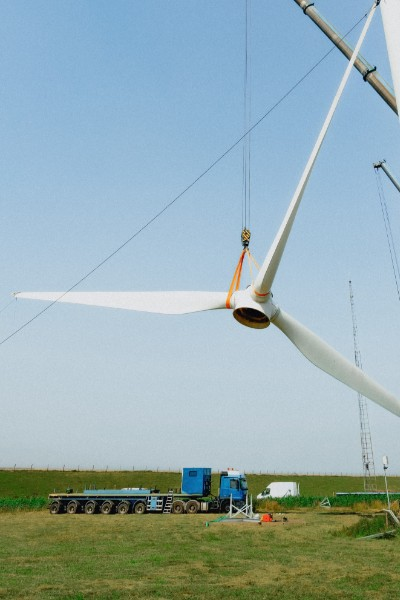
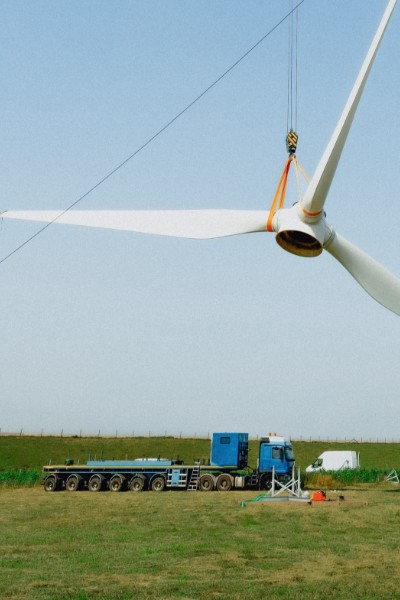
feedback

diff --git a/inscreen_expandable_mobile-uncovering-dirty-money/banner/css/style.css b/inscreen_expandable_mobile-uncovering-dirty-money/banner/css/style.css
@@ -1,6 +1,6 @@
 /* ------------------------------------------------
  LEAVE IN PLACE --------------------------------- */
-body {
+ body {
 	-webkit-tap-highlight-color: transparent;
 }
 
@@ -44,7 +44,7 @@ body {
 	width: calc(100% + 20px);
 	height: auto;
 	object-fit: cover;
-	object-position: center;
+    object-position: center;
 
 	animation: pan 10s infinite ease-in-out;
 }
@@ -91,12 +91,11 @@ body {
 	/* Make it your job */
 
 	font-family: 'ING Me Bold';
-	font-size: 9vmin;
+	font-size: 7vmin;
 	background-color: #ff6200;
 	color: white;
 	border-radius: 5px;
-	padding: 0.25em 0.4em;
-	width: max-content;
+	padding: .25em .4em;	width: max-content;
 }
 
 .purple {
@@ -106,9 +105,8 @@ body {
 	background-color: #ab0066;
 	color: white;
 	border-radius: 5px;
-	font-size: 5vmin;
-	padding: 0.25em 0.4em;
-	margin-top: 8px;
+	font-size: 4vmin;
+	padding: .25em .4em;	margin-top: 8px;
 	width: max-content;
 }
 
@@ -122,6 +120,10 @@ body {
 	z-index: 2;
 }
 
+.logo svg {
+	width: 100%;
+	height: 100%;
+}
 .logo img {
 	width: 100%;
 	height: 100%;

diff --git a/inscreen_expandable_mobile-helping-giants-go-green/banner/index.html b/inscreen_expandable_mobile-helping-giants-go-green/banner/index.html
@@ -26,8 +26,8 @@
                     <span>go green</span>
                 </div>
                 <div class="disclaimer">
-                    Society is transitioning to a low-carbon economy. So are our clients,<br />
-                    and so is ING. We fincance a lot of sustainable things, but we still finance<br />
+                    Society is transitioning to a low-carbon economy. So are our clients,
+                    and so is ING. We fincance a lot of sustainable things, but we still finance
                     more that's not. See how we're progressing on <strong>ing.com/climate</strong>.
                 </div>
                 <div class="logo">

diff --git a/inscreen_expandable_mobile-helping-giants-go-green/banner/css/style.css b/inscreen_expandable_mobile-helping-giants-go-green/banner/css/style.css
@@ -78,6 +78,7 @@ body {
 
 	bottom: 16px;
 	font-size: 6px;
+	text-shadow: 0 0 2px rgba(0, 0, 0, 0.5);
 }
 
 .container.bottom {
@@ -91,7 +92,7 @@ body {
 	/* Make it your job */
 
 	font-family: 'ING Me Bold';
-	font-size: 9vmin;
+	font-size: 7vmin;
 	background-color: #ff6200;
 	color: white;
 	border-radius: 5px;
@@ -105,7 +106,7 @@ body {
 	background-color: #ab0066;
 	color: white;
 	border-radius: 5px;
-	font-size: 5vmin;
+	font-size: 4vmin;
 	padding: .25em .4em;	margin-top: 8px;
 	width: max-content;
 }

diff --git a/mobile_scroller-helping-giants-go-green/banner/css/style.css b/mobile_scroller-helping-giants-go-green/banner/css/style.css
@@ -85,7 +85,7 @@ body {
 	/* Make it your job */
 
 	font-family: 'ING Me Bold';
-	font-size: 9vmin;
+	font-size: 7vmin;
 	background-color: #ff6200;
 	color: white;
 	border-radius: 5px;
@@ -100,7 +100,7 @@ body {
 	background-color: #ab0066;
 	color: white;
 	border-radius: 5px;
-	font-size: 5vmin;
+	font-size: 4vmin;
 	padding: .25em .4em;
 	margin-top: 8px;
 	width: max-content;

diff --git a/mobile_scroller-uncovering-dirty-money/banner/css/style.css b/mobile_scroller-uncovering-dirty-money/banner/css/style.css
@@ -85,7 +85,7 @@ body {
 	/* Make it your job */
 
 	font-family: 'ING Me Bold';
-	font-size: 9vmin;
+	font-size: 7vmin;
 	background-color: #ff6200;
 	color: white;
 	border-radius: 5px;
@@ -100,7 +100,7 @@ body {
 	background-color: #ab0066;
 	color: white;
 	border-radius: 5px;
-	font-size: 5vmin;
+	font-size: 4vmin;
 	padding: .25em .4em;
 	margin-top: 8px;
 	width: max-content;

diff --git a/970x250-helping-giants-go-green/src/style.css b/970x250-helping-giants-go-green/src/style.css
@@ -178,7 +178,7 @@ k {
 	right: 0;
 	bottom: 0;
 	margin: auto;
-	width: 64px;
+	width: 96px;
 	height: auto;
 }
 

diff --git a/970x250-uncovering-dirty-money/src/style.css b/970x250-uncovering-dirty-money/src/style.css
@@ -178,7 +178,7 @@ k {
 	right: 0;
 	bottom: 0;
 	margin: auto;
-	width: 64px;
+	width: 96px;
 	height: auto;
 }
 
